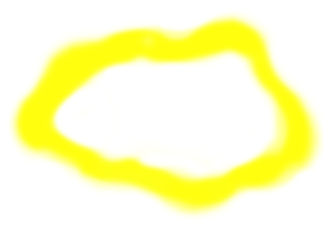
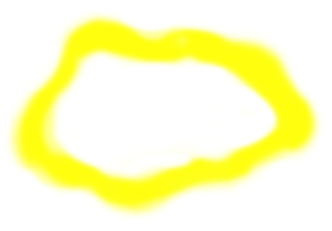
攻撃のチュートリアルを実装 プレイヤーの無敵時間延長 瞬間移動のエフェクトを左右　Resourceに追加

diff --git a/Team03/GameProject/Project/GameApp.cpp b/Team03/GameProject/Project/GameApp.cpp
@@ -62,8 +62,10 @@ MofBool CGameApp::Initialize(void){
 		.LoadTexture("ItemLife", "images/item/ItemLife.png")
 			// effect
 		.LoadTexture("effect_explosion", "images/effect/explosion.png")
-		.LoadTexture("effect_cloud_left_highlight", "images/effect/cloud_left_highlight.png")
+		.LoadTexture("effect_cloud_right_highlight", "images/effect/cloud_right_highlight.png")
 			// UI
+				// tutorial
+		.LoadTexture("tutorial_AttackText","images/ui/tutorial/AttackText.png")
 				// Life
 		.LoadTexture("ui_life_0","images/ui/life/ui_zannki0.png")
 		.LoadTexture("ui_life_1","images/ui/life/ui_zannki1.png")

diff --git a/Team03/GameProject/Project/SceneGame.cpp b/Team03/GameProject/Project/SceneGame.cpp
@@ -277,6 +277,13 @@ void CSceneGame::Render()
 	m_pUI_Life->Render(5, 8);
 	m_pUI_Wave->Render(m_pUI_Life->GetWidth() + 5, 15);
 	font.RenderFormatString(1000, 0, MOF_XRGB(255, 0, 0), "%d", (int)m_FlowWaitTime);
+
+	if (m_WaveNo == 0) {
+		if (m_NowGameFlow == GameFlow::Player_Shooting) {
+			CResourceManager::Singleton().GetTextureList()->at("tutorial_AttackText").Render(g_pGraphics->GetTargetWidth()*0.5, 100, TextureAlignment::TEXALIGN_TOPCENTER);
+		}
+	}
+
 	CSceneBase::Render();
 }
 
